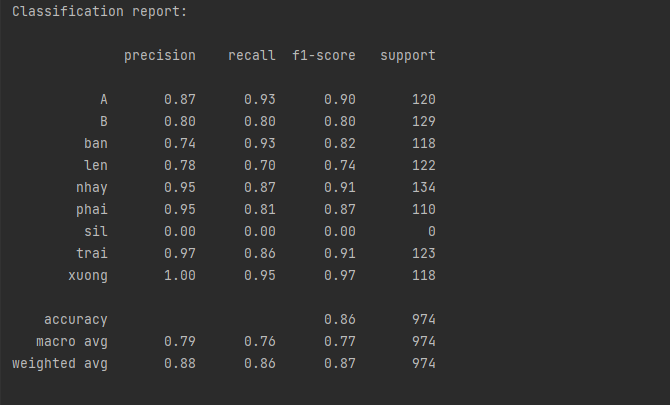
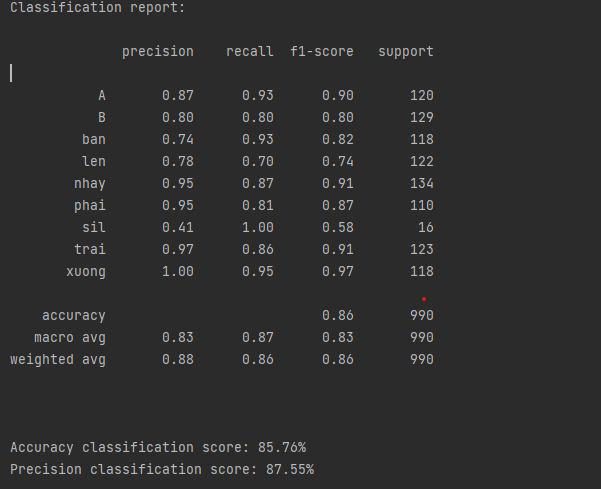
final

diff --git a/dtw-mfcc.py b/dtw-mfcc.py
@@ -64,7 +64,7 @@ real_label = []
 
 def cross_validation():
     for file_name in files:
-        for audio_name in os.listdir(train_path + '/' + file_name)[4:]:
+        for audio_name in os.listdir(train_path + '/' + file_name)[4:20]:
             _, predict_label = predict_result(train_path + '/' + file_name + '/' + audio_name)
             real_label.append(file_name)
             predict.append(predict_label)
@@ -92,7 +92,7 @@ accuracy = metrics.accuracy_score(real_label, predict)
 print('Accuracy classification score: {0:.2f}%'.format(100 * accuracy))
 precision = metrics.precision_score(real_label, predict, average='weighted')
 print('Precision classification score: {0:.2f}%'.format(100 * precision))
-# dis, result = predict_result('data_output/B/86_B_4.wav')
-#
-# print('distance: ', dis)
-# print('The word predict is: ', result)
+dis, result = predict_result('test_data/1.wav')
+
+print('distance: ', dis)
+print('The word predict is: ', result)
